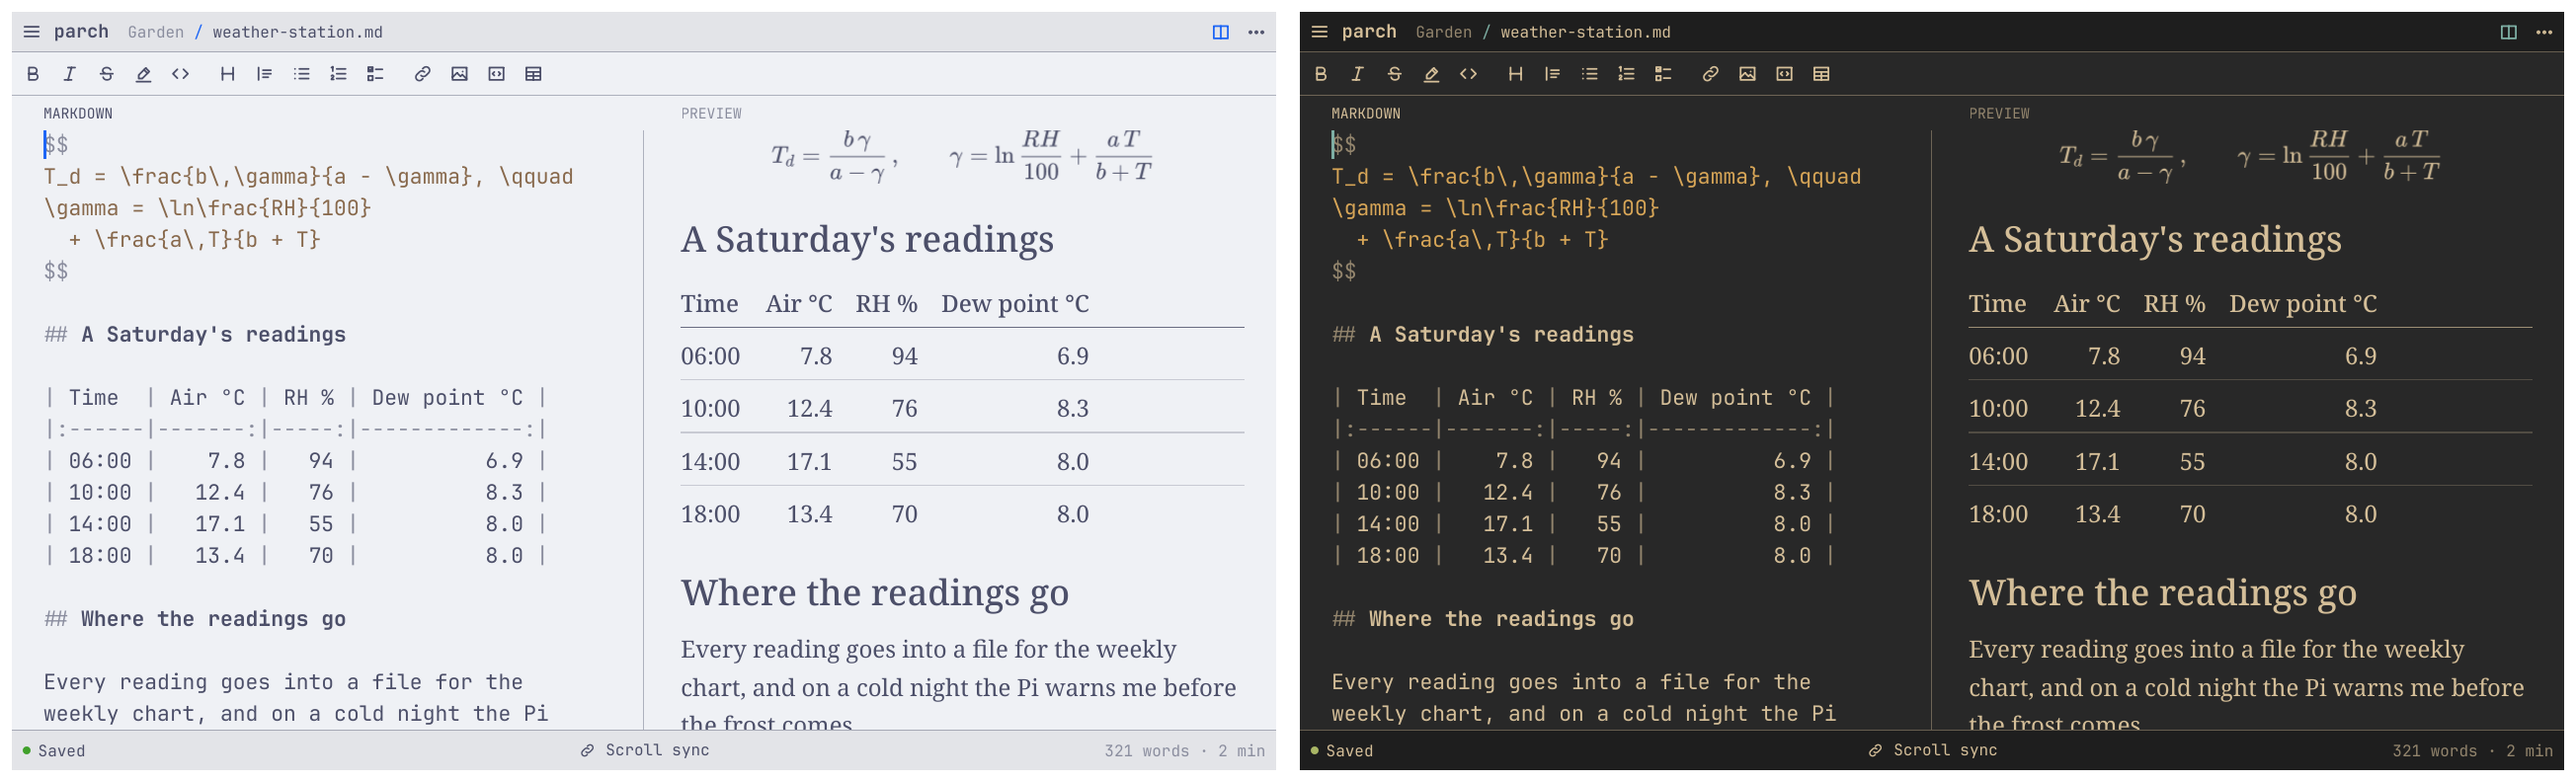
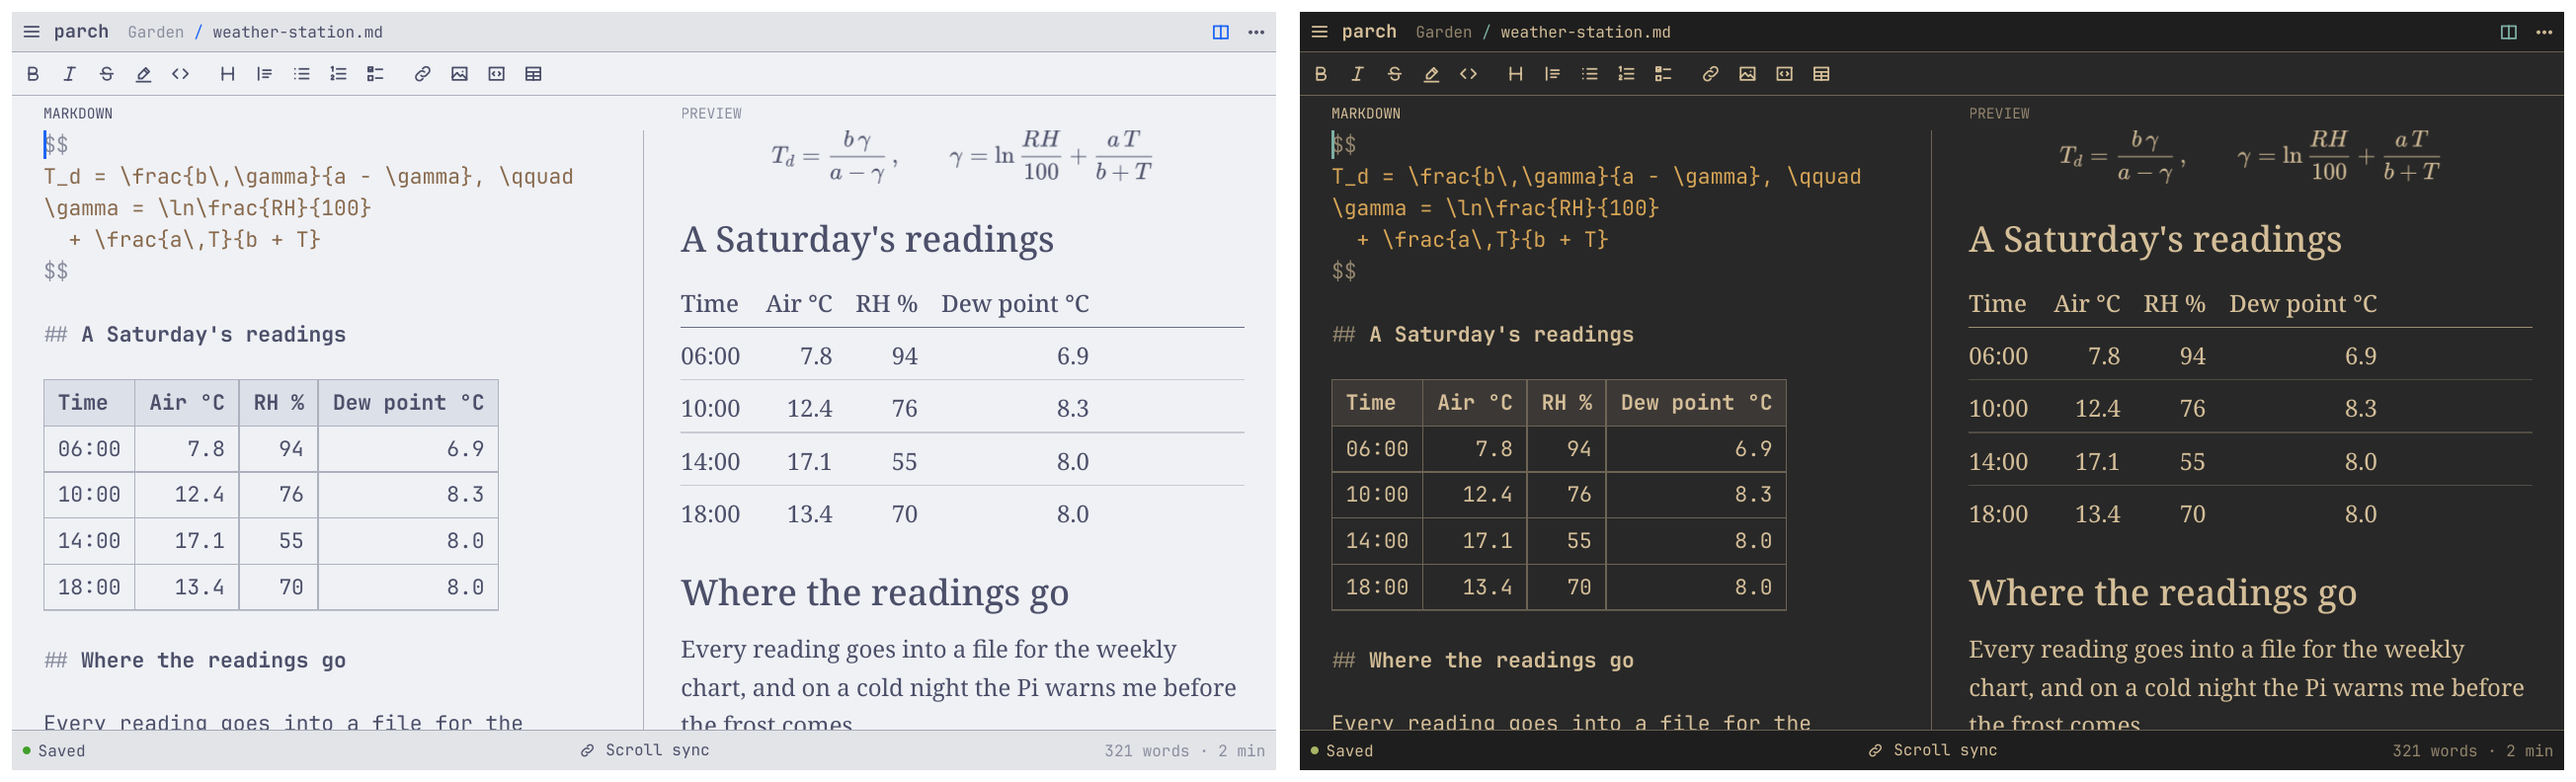
Document tables as grids, draw their picture, and keep Replace All off the UI thread

Changed region(s): [[0.0, 0.4848, 0.2174, 0.9394], [0.4969, 0.4848, 0.7143, 0.9394], [0.1863, 0.6667, 0.2174, 0.7273]]

diff --git a/src/StatusLine.qml b/src/StatusLine.qml
@@ -22,6 +22,8 @@ Rectangle {
     // Why the last action could not be done, in a few words, and in full.
     property string problem
     property string problemDetail
+    // Why an edit was refused, as one that would break a table's rows, for a moment.
+    property string hint
     // The view's selection, as source offsets, whose words are counted when it has any.
     property int selectionStart: 0
     property int selectionEnd: 0
@@ -134,6 +136,24 @@ Rectangle {
             Accessible.role: Accessible.StaticText
             Accessible.name: text
         }
+    }
+
+    Text {
+        id: hintText
+        objectName: "editHint"
+        visible: line.hint.length > 0
+        anchors.left: saving.right
+        anchors.leftMargin: line.gap
+        anchors.verticalCenter: parent.verticalCenter
+        width: Math.max(0, Math.min(implicitWidth, line.width / 3))
+        text: line.hint
+        textFormat: Text.PlainText
+        font.family: theme.fontFamily
+        font.pixelSize: theme.fontSize
+        color: theme.warning
+        elide: Text.ElideRight
+        Accessible.role: Accessible.StaticText
+        Accessible.name: text
     }
 
     // In a few words, which take focus from the keyboard: the whole reason

diff --git a/src/EditorPane.qml b/src/EditorPane.qml
@@ -63,6 +63,9 @@ Rectangle {
     property bool liveFormatting: true
     // Tables show as grids to write in, rather than as their Markdown.
     property bool tableGrids: false
+    // Why the last edit was refused, as one that would break a table's
+    // rows; for a few seconds, for the status line to say.
+    property string editHint
 
     // The advance of "0", the width CSS calls one character, as the editor draws it.
     readonly property real characterWidth: zero.advanceWidth
@@ -944,6 +947,20 @@ Rectangle {
         onActivity: pane.wakeCaret()
         onIncludeAsked: (name, canInclude) => pane.includeAsked(name, canInclude)
         onCopyAsked: (names, bytes) => pane.copyAsked(names, bytes)
+    }
+
+    Connections {
+        target: binding.tables
+        function onRefused(reason) {
+            pane.editHint = reason
+            hintTime.restart()
+        }
+    }
+    QuietTimer {
+        id: hintTime
+        objectName: "editHintTime"
+        interval: 4000
+        onTriggered: pane.editHint = ""
     }
 
     Connections {

diff --git a/src/Main.qml b/src/Main.qml
@@ -1054,6 +1054,7 @@ ApplicationWindow {
                 status: window.tabs.activeStatus
                 problem: backend.notice ? "" : backend.problem
                 problemDetail: backend.notice ? "" : backend.shownText(backend.problemDetail)
+                hint: editorPane.editHint
                 selectionStart: editorPane.anchorPosition
                 selectionEnd: editorPane.cursorPosition
                 syncShown: window.splitBoth

diff --git a/tests/tablegridtests.cpp b/tests/tablegridtests.cpp
@@ -1140,4 +1140,83 @@ void pastingCellsFillsOverwritesAndGrows()
     QCOMPARE(view.cell(), u"East gate open"_s);
 }
 
+void handTypedTablesWaitUntilTheCaretLeaves()
+{
+    GridEditor view(u"Readings.\n\n\n\nAfter."_s);
+    QVERIFY2(view.ok(), qPrintable(view.error));
+    QVERIFY(view.grids(0));
+    view.select(11, 11);
+    view.type(u"| a | b |"_s);
+    view.key(Qt::Key_Return);
+    view.type(u"|---|---|"_s);
+    view.key(Qt::Key_Return);
+    view.type(u"| c | d |"_s);
+    // While the caret is in it, the table being written stays as it is typed.
+    QTest::qWait(300);
+    QCOMPARE(view.binding->tables()->grids().size(), 0);
+    QVERIFY(view.text().contains(u"| a | b |\n|---|---|\n| c | d |"_s));
+    // Once the caret leaves it, it is a grid; its text is not touched.
+    view.select(int(view.text().indexOf(u"After")), int(view.text().indexOf(u"After")));
+    QVERIFY(view.grids(1));
+    QVERIFY(view.text().contains(u"| a | b |\n|---|---|\n| c | d |"_s));
+}
+
+void everyGeometryQuestionHasAnAnswerInATable()
+{
+    GridEditor view(weather);
+    QVERIFY2(view.ok(), qPrintable(view.error));
+    QVERIFY(view.grids(1));
+    TableGrid *grid = view.grid();
+    // Every position of the table, pipes and hidden rows too, is somewhere in its grid.
+    for (int position = grid->start(); position <= grid->end(); ++position) {
+        const QRectF rect = view.binding->sourceRectangle(position);
+        QVERIFY2(rect.top() >= grid->y() - 0.5 && rect.bottom() <= grid->y() + grid->height() + 0.5,
+                 qPrintable(QString::number(position)));
+    }
+    // Later rows are lower down, so that a view scrolled through the table moves steadily.
+    const qreal first = view.binding->sourceRectangle(int(view.text().indexOf(u"North"))).top();
+    const qreal second = view.binding->sourceRectangle(int(view.text().indexOf(u"East"))).top();
+    QVERIFY(second > first);
+    QVERIFY(view.binding->sourceRectangle(grid->end()).top() >= second);
+    // The text after the table is below it.
+    QVERIFY(view.binding->sourceRectangle(int(view.text().indexOf(u"After"))).top() >= grid->y() + grid->height());
+}
+
+void fontAndWidthChangesKeepTheGrid()
+{
+    GridEditor view(weather);
+    QVERIFY2(view.ok(), qPrintable(view.error));
+    QVERIFY(view.grids(1));
+    const qreal before = view.grid()->height();
+    // A larger font makes a taller grid, and the line it stands in grows with it.
+    view.pane->setProperty("fontPixelSize", 26);
+    QTRY_VERIFY(view.grid()->height() > before);
+    QTextDocument *doc = view.binding->textDocument();
+    const QTextBlock header = doc->findBlock(view.binding->sourceToEditor(view.grid()->start()));
+    QTRY_COMPARE(header.blockFormat().lineHeight(), std::ceil(view.grid()->height()));
+    // A narrow view wraps the long cells rather than drawing past it.
+    GridEditor narrow(u"| A long heading that takes room | B |\n|---|---|\n| some words in a cell that needs room | x |"_s,
+                      QSize(320, 480));
+    QVERIFY(narrow.grids(1));
+    QVERIFY2(narrow.grid()->width() <= narrow.binding->tables()->availableWidth() + 1,
+             qPrintable(QString::number(narrow.grid()->width())));
+    QVERIFY(narrow.grid()->lineCount({1, 0}) > 1);
+}
+
+void tablesTheGridCannotHoldStayMarkdown()
+{
+    GridEditor view(u"| a | b |\n|---|---|\n| 1 | 2 | 3 |\n\nText.\n\n| c | d |\n|---|---|\n| 4 | 5 |"_s);
+    QVERIFY2(view.ok(), qPrintable(view.error));
+    // The first has a cell past its header: it shows as Markdown; the second is a grid.
+    QVERIFY(view.grids(1));
+    QCOMPARE(view.grid()->start(), int(view.text().indexOf(u"| c |")));
+    for (QTextBlock block = view.binding->textDocument()->begin(); block.position() < view.binding->sourceToEditor(view.grid()->start());
+         block = block.next())
+        QVERIFY(block.isVisible());
+    // Typed in, it takes edits as text does.
+    view.select(3, 3);
+    view.type(u"z"_s);
+    QVERIFY(view.text().startsWith(u"| az | b |"_s));
+}
+
 } // namespace TableGridTests

diff --git a/src/documentfind.cpp b/src/documentfind.cpp
@@ -379,8 +379,9 @@ void DocumentFind::startReplaceAll(const QString &replacement)
 {
     m_replacing = true;
     const QPointer<Document> document = m_document;
+    const bool each = m_binding && !m_binding->tables()->grids().isEmpty();
     QtConcurrent::run(&m_pool, &DocumentFind::replaceJob, m_document->buffer()->snapshot(), *m_expression, replacement,
-                      m_query.regex)
+                      m_query.regex, each)
         .then(this, [this, document, replacement](const Replaced &replaced) {
             m_replacing = false;
             if (!document || document != m_document || !m_canReplace) return;
@@ -391,7 +392,7 @@ void DocumentFind::startReplaceAll(const QString &replacement)
                 return;
             }
             int count = replaced.count;
-            if (count > 0 && m_binding && !m_binding->tables()->grids().isEmpty()) {
+            if (count > 0 && m_binding && !m_binding->tables()->grids().isEmpty() && !replaced.edits.isEmpty()) {
                 // Matches in a table's syntax are none; those in cells are
                 // written into them, each table tidy, all one step.
                 QList<SourceEdit> edits;
@@ -419,7 +420,8 @@ void DocumentFind::startReplaceAll(const QString &replacement)
 }
 
 DocumentFind::Replaced DocumentFind::replaceJob(QSharedPointer<const SourceSnapshot> snapshot,
-                                                QRegularExpression expression, QString replacement, bool regex)
+                                                QRegularExpression expression, QString replacement, bool regex,
+                                                bool each)
 {
     WorkerFailure::check(WorkerFailure::Job::Search);
     Replaced replaced;
@@ -433,7 +435,7 @@ DocumentFind::Replaced DocumentFind::replaceJob(QSharedPointer<const SourceSnaps
     });
     replaced.count = int(edits.size());
     replaced.edit = TextSearch::combine(text, edits);
-    replaced.edits = edits;
+    if (each) replaced.edits = std::move(edits);
     return replaced;
 }
 

diff --git a/src/tablegrids.cpp b/src/tablegrids.cpp
@@ -634,7 +634,12 @@ std::optional<QRectF> TableGrids::rectangleFor(int position) const
     TableGrid *grid = gridAt(position);
     if (!grid) return std::nullopt;
     QRectF caret = grid->caretAt(position);
-    if (caret.isNull()) caret = QRectF(0, 0, 0, lineHeight());
+    if (caret.isNull()) {
+        // Outside the cells, as in the pipes or at a row's end: the row's place.
+        const int row = MdTable::rowAt(grid->table(), position);
+        const QRectF rect = grid->rowRect(row <= 1 ? 0 : row - 1);
+        caret = QRectF(0, rect.top() + std::round(grid->padding() / 2), 0, lineHeight());
+    }
     return caret.translated(grid->x() - grid->scrollX(), grid->y());
 }
 
@@ -678,6 +683,13 @@ bool TableGrids::inCellText(int start, int end) const
         return start >= cell.start && end <= cell.end;
     }
     return true;
+}
+
+bool TableGrids::settled() const
+{
+    if (!m_enabled || !m_binding->m_loaded || !m_binding->m_document) return true;
+    const ParsedTextPtr parse = m_binding->m_document->parse()->current();
+    return parse && parse->revision == m_binding->m_buffer->revision();
 }
 
 void TableGrids::setProblem(const QString &problem)

diff --git a/tests/parch_tests.cpp b/tests/parch_tests.cpp
@@ -886,6 +886,10 @@ private slots:
     void readOnlyTablesTakeNoEdits() { TableGridTests::readOnlyTablesTakeNoEdits(); }
     void copyingCellsGivesTabsAndAnHtmlTable() { TableGridTests::copyingCellsGivesTabsAndAnHtmlTable(); }
     void pastingCellsFillsOverwritesAndGrows() { TableGridTests::pastingCellsFillsOverwritesAndGrows(); }
+    void handTypedTablesWaitUntilTheCaretLeaves() { TableGridTests::handTypedTablesWaitUntilTheCaretLeaves(); }
+    void everyGeometryQuestionHasAnAnswerInATable() { TableGridTests::everyGeometryQuestionHasAnAnswerInATable(); }
+    void fontAndWidthChangesKeepTheGrid() { TableGridTests::fontAndWidthChangesKeepTheGrid(); }
+    void tablesTheGridCannotHoldStayMarkdown() { TableGridTests::tablesTheGridCannotHoldStayMarkdown(); }
     void viewsFollowTheFingersFromTheirFirstMove() { TouchpadTests::viewsFollowTheFingersFromTheirFirstMove(); }
     void aSwipeGlidesOnAfterTheFingersLift() { TouchpadTests::aSwipeGlidesOnAfterTheFingersLift(); }
     void sidewaysSwipesGlideSideways() { TouchpadTests::sidewaysSwipesGlideSideways(); }

diff --git a/src/screenshot.cpp b/src/screenshot.cpp
@@ -129,6 +129,7 @@ QStringList Screenshot::pending() const
         } else if (m_window->property("editorShown").toBool()) {
             QObject *styling = editorPane->findChild<QObject *>(QStringLiteral("styling"));
             if (styling && styling->property("busy").toBool()) waiting.append(tr("live formatting"));
+            if (binding && !binding->tables()->settled()) waiting.append(tr("the tables"));
             SpellChecker *spelling = m_backend ? m_backend->spelling() : nullptr;
             QObject *layer = editorPane->findChild<QObject *>(QStringLiteral("spelling"));
             if ((spelling && spelling->wanted() && !spelling->settled()) || (layer && layer->property("checking").toBool()))

diff --git a/src/documentfind.h b/src/documentfind.h
@@ -131,8 +131,10 @@ private:
 
     static Found findJob(QSharedPointer<const SourceSnapshot> snapshot, QRegularExpression expression,
                          std::shared_ptr<std::atomic<bool>> cancel);
+    // With `each`, every replacement is kept besides, for a view's grids to
+    // write into their cells; otherwise they go with the worker.
     static Replaced replaceJob(QSharedPointer<const SourceSnapshot> snapshot, QRegularExpression expression,
-                               QString replacement, bool regex);
+                               QString replacement, bool regex, bool each);
 
     void queryEdited();
     void schedule(int delayMs);

diff --git a/src/scrollsync.cpp b/src/scrollsync.cpp
@@ -73,9 +73,8 @@ qreal ScrollSync::editorHeightOf(int source) const
 {
     QQuickItem *editor = m_binding->editor();
     const int length = m_binding->document()->buffer()->length();
-    const int position = m_binding->sourceToEditor(std::clamp(source, 0, length));
-    QRectF line;
-    QMetaObject::invokeMethod(editor, "positionToRectangle", Q_RETURN_ARG(QRectF, line), Q_ARG(int, std::max(0, position)));
+    // Where the text view draws the position, in a table's grid too.
+    const QRectF line = m_binding->sourceRectangle(std::clamp(source, 0, length));
     return editor->y() + line.y();
 }
 

diff --git a/src/editorbinding.h b/src/editorbinding.h
@@ -210,6 +210,9 @@ public:
     // Where the caret is drawn, in the editor's coordinates: in a grid's
     // cell as the grid draws it.
     Q_INVOKABLE QRectF caretRectangle() const;
+    // Where a caret at a source position would be drawn, in the editor's
+    // coordinates, a grid's cells and rows included.
+    QRectF sourceRectangle(int source) const;
     // The TextEdit's own insert, remove and clear, in its positions.
     Q_INVOKABLE void replaceEditorRange(int start, int end, const QString &text);
     // The TextEdit's own append: a new paragraph at the end.

diff --git a/src/tablegrids.h b/src/tablegrids.h
@@ -196,6 +196,9 @@ public:
     QList<QObject *> gridObjects() const;
     const QList<TableGrid *> &grids() const { return m_grids; }
     bool caretInGrid() const { return m_caretGrid != nullptr; }
+    // The tables of the text as it is now have been looked for: those that
+    // are to be grids are.
+    bool settled() const;
     QString problem() const { return m_problem; }
 
     EditorBinding *binding() const { return m_binding; }
